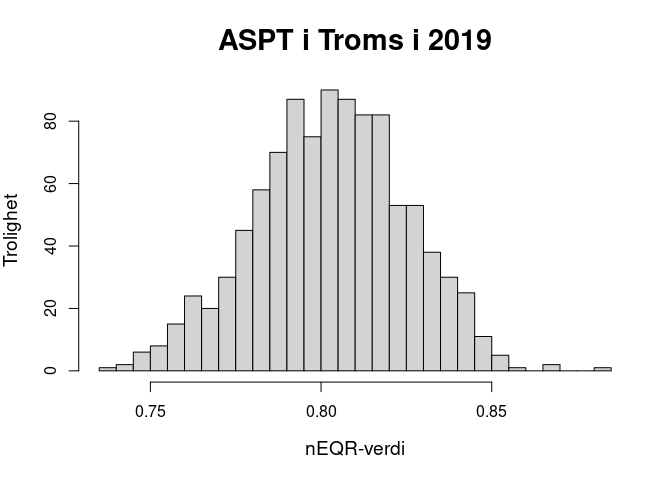
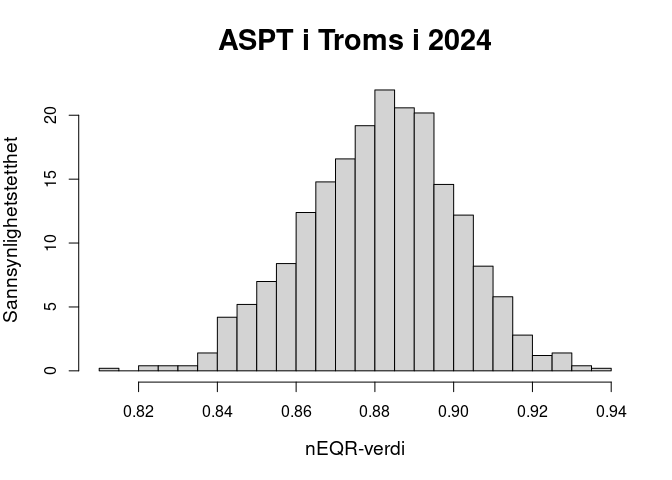
files for version 2.1, second delivery

diff --git a/vfNIdemo.md b/vfNIdemo.md
@@ -1,3 +1,11 @@
+# Illustrasjon av dataflyt fra vannforskrift til naturindeks
+
+Dette dokumentet viser gangen i å forberede og gjennomføre opplasting av
+data som har blitt samla inn i rammen av vannforskriften, til
+naturindeks-databasen. Dataflyt til økologiske tilstandsregnskap
+fungerer på tilsvarende måte (for detaljert dokumentasjon henvises her
+til [ecRxiv](https://github.com/NINAnor/ecRxiv)).
+
 -   [Forberedelser](#forberedelser)
 -   [Nødvendig informasjon om
     vannforekomster](#nødvendig-informasjon-om-vannforekomster)
@@ -13,11 +21,6 @@
 -   [Opplasting til
     naturindeks-databasen](#opplasting-til-naturindeks-databasen)
 
-Dette dokumentet viser gangen i å forberede og gjennomføre opplasting av
-data som har blitt samla inn i rammen av vannforskriften, til
-naturindeks-databasen. Dataflyt til økologiske tilstandsregnskap
-fungerer på tilsvarende måte (for detaljert dokumentasjon henvises her
-til [ecRxiv](https://github.com/NINAnor/ecRxiv)).
 
 ## Forberedelser
 
@@ -91,7 +94,7 @@ De nødvendige filene er plassert i mappa “[data](data/)”. De leses da
 inn i **R** ved hjelp av funksjonen
 [`lesVannforekomster`](forklar/lesVannforekomster.md) på følgende måte:
 
-    V <- lesVannforekomster(c("L", "R", "C"), filsti = "data")
+    V <- lesVannforekomster(c("L", "R"), filsti = "data")
 
     ## 
     ## OBS: Noen vannforekomsters dybde ble justert:
@@ -110,18 +113,14 @@ inn i **R** ved hjelp av funksjonen
     ## * 16 med "n" = "" for dybde
     ## * 2 med "0" = "Satt til turbid" for humøsitet
     ## * 1 med "0" = "Ikke satt" for turbiditet
-    ## * 4 med "0" = "Udefinert" for salinitet
-    ## * 2 med "0" = "Udefinert" for tidevann
-    ## * 2 med "0" = "Udefinert" for oppholdstid
-    ## * 2 med "0" = "Udefinert" for strøm
-    ## * 1115 med "Ikke relevant" for økologisk tilstand
-    ## * 17 med "Udefinert" for økologisk tilstand
+    ## * 1051 med "Ikke relevant" for økologisk tilstand
+    ## * 14 med "Udefinert" for økologisk tilstand
     ## * 1 med "Udefinert" for økologisk miljømål
-    ## * 7976 med "Ikke relevant" for økologisk potensial
+    ## * 5757 med "Ikke relevant" for økologisk potensial
     ## * 2 med "Udefinert" for økologisk potensial
-    ## * 7975 med "Udefinert" for økologisk potensial miljømål
+    ## * 5756 med "Udefinert" for økologisk potensial miljømål
     ## * 2 med "" for kjemisk tilstand
-    ## * 29706 med "Udefinert" for kjemisk tilstand
+    ## * 28084 med "Udefinert" for kjemisk tilstand
     ## Disse blir satt til <NA>!
     ## 
     ## OBS: Noen vannforekomsters størrelsesklasse ble justert opp:
@@ -137,7 +136,7 @@ inn i **R** ved hjelp av funksjonen
     ## * 1 gang fra 4 til 2
     ## * 5 ganger fra 4 til 3
     ## 
-    ## Innlesing av 32436 vannforekomster var vellykka. (Men legg merke til beskjedene over!)
+    ## Innlesing av 30153 vannforekomster var vellykka. (Men legg merke til beskjedene over!)
 
 Utmatinga forteller om mindre avvik fra det man kunne forvente. Men
 ingen av dem var kritisk for den videre analysen. I så fall hadde
@@ -201,9 +200,8 @@ vannmiljø endrer kolonnenavnene i sin nedlastingsløsning, må denne fila
 [oppdateres
 tilsvarende](forklar/hjelpfil.md#vannlokaliteter-vl-.xlsx-navnvl.csv).
 
-De relevante vannkategoriene (“L” for innsjø, “R” for elv og/eller “C”
-for kyst) oppgis som argument når vannlokalitene leses inn i R ved hjelp
-av funksjonen [`lesVannlokaliteter`](forklar/lesVannlokaliteter.md):
+Funksjonen [`lesVannlokaliteter`](forklar/lesVannlokaliteter.md) står
+for innlesinga:
 
     VL <- lesVannlokaliteter(filsti = "data")
 
@@ -309,7 +307,7 @@ tilsvarende](forklar/hjelpfil.md#vannmiljø-data-navnvm.csv).
 
 Funksjonen som leser inn målingene, heter
 [`lesMaalinger`](forklar/lesMaalinger.md). Den leser inn målingene via
-API når Vannmiljø-databasens forkortelse for parameteren oppgis som
+API når vannmiljø-databasens forkortelse for parameteren oppgis som
 argument (f.eks. “ASPT”). Når det oppgis filnavnet på den manuelt
 nedlasta excelfila, leses målingene inn fra denne. Det er det siste som
 illustreres her:
@@ -402,7 +400,7 @@ trenger man bare å oppgi om man ønsker å endre på standardinnstillingene
     ## 
     ## OBS: 1 måling ble ekskludert fordi den ikke kunne knyttes til noen kjent vannlokalitet.
     ## 
-    ## OBS: 941 målinger ble ekskludert fordi deres vannlokaliteter ikke kunne knyttes til noen
+    ## OBS: 943 målinger ble ekskludert fordi deres vannlokaliteter ikke kunne knyttes til noen
     ##      typifisert vannforekomst.
     ## 
     ## OBS: 370 målinger ble ekskludert fordi de ikke ble foretatt i en elvevannforekomst.
@@ -422,9 +420,9 @@ trenger man bare å oppgi om man ønsker å endre på standardinnstillingene
     ##      perioden 2001-2010).
     ## 
     ## Dataene som inngår i modelltilpasninga, inneholder dermed
-    ## - 17870 målinger fra
-    ## - 5500 vannlokaliteter i
-    ## - 3157 vannforekomster i
+    ## - 17868 målinger fra
+    ## - 5499 vannlokaliteter i
+    ## - 3156 vannforekomster i
     ## - 19 fylker
     ## - mellom 2001 og 2024.
     ## 
@@ -434,11 +432,11 @@ trenger man bare å oppgi om man ønsker å endre på standardinnstillingene
     ## 
     ## Oppsummering av variabelverdier før skalering:
     ##  minimum  ned. kv.    median  gj.snitt  øvr. kv.  maksimum 
-    ##  0,00000   5,55556   6,14286   5,99410   6,60000   9,25000 
+    ##  0,00000   5,55556   6,14286   5,99425   6,60000   9,25000 
     ## 
     ## Oppsummering av variabelverdier etter skalering:
     ##  minimum  ned. kv.    median  gj.snitt  øvr. kv.  maksimum 
-    ##  0,00000   0,48889   0,63572   0,63704   0,75000   1,19914 
+    ##  0,00000   0,48889   0,63572   0,63708   0,75000   1,19914 
     ## 
     ## 
     ##    Modelltilpasning til målingene
@@ -499,45 +497,45 @@ trenger man bare å oppgi om man ønsker å endre på standardinnstillingene
     ## 
     ## Residualer:
     ##  minimum  ned. kv.    median  gj.snitt  øvr. kv.  maksimum 
-    ## -6,22405  -0,50275  -0,12990  -0,02313   0,21789   8,69094 
-    ## standardfeil: 1,124 med 17834 frihetsgrader
+    ## -6,22560  -0,50273  -0,12988  -0,02307   0,21813   8,69056 
+    ## standardfeil: 1,124 med 17832 frihetsgrader
     ## 
     ## Koeffisienter:
     ##                                                  estimat standardfeil t-verdi Pr(>|t|)    
-    ## (konstantledd)                                  -5,24763      0,29527  -17,77  < 1E-12 ***
-    ## per2014                                         -1,36020      0,06330  -21,49  < 1E-12 ***
-    ## per2019                                         -1,23902      0,05377  -23,04  < 1E-12 ***
-    ## per2024                                         -1,67255      0,05139  -32,54  < 1E-12 ***
-    ## rar                                              0,20460      0,01865   10,97  < 1E-12 ***
-    ## aktANNE+ELVE+GRUV+PASV+PROB+TILT+VASS           -0,48141      0,05156   -9,34  < 1E-12 ***
-    ## aktAREA+BAPO+KALK+KOMM                          -0,67267      0,05960  -11,29  < 1E-12 ***
-    ## aktBARE+EMUD+FLYP+FORS+INDU+JRBN+KART+OEKF+SKYT -1,04850      0,05809  -18,05  < 1E-12 ***
-    ## aktBIOM+DEPO+KALL+KAVE                          -0,27364      0,05791   -4,73  2,3E-06 ***
-    ## aktDRIK                                         -1,62428      0,20094   -8,08  < 1E-12 ***
-    ## aktLANG                                          1,11341      0,07840   14,20  < 1E-12 ***
-    ## gbred                                            0,12559      0,00452   27,79  < 1E-12 ***
-    ## sonL                                             0,07901      0,06198    1,27  0,20241    
-    ## sonM                                             0,22009      0,06140    3,58  0,00034 ***
-    ## sto2                                             0,06642      0,02212    3,00  0,00269 ** 
-    ## sto3+4                                           0,20664      0,02816    7,34  < 1E-12 ***
-    ## sto5                                             0,01404      0,05786    0,24  0,80822    
-    ## alk2                                            -0,21186      0,02962   -7,15  < 1E-12 ***
-    ## alk3                                            -0,51017      0,03502  -14,57  < 1E-12 ***
-    ## alk4                                            -0,95429      0,04790  -19,92  < 1E-12 ***
-    ## alk5+6+7                                         0,09787      0,03696    2,65  0,00810 ** 
-    ## hum2                                            -0,13776      0,02355   -5,85  5,0E-09 ***
-    ## hum3                                            -0,84509      0,10606   -7,97  < 1E-12 ***
-    ## hum4                                            -0,13154      0,05909   -2,23  0,02602 *  
-    ## tur3                                            -0,31788      0,04686   -6,78  1,2E-11 ***
-    ## per2014:rar                                     -0,18432      0,02998   -6,15  8,0E-10 ***
-    ## per2019:rar                                     -0,21440      0,02310   -9,28  < 1E-12 ***
-    ## per2024:rar                                     -0,10879      0,02121   -5,13  2,9E-07 ***
+    ## (konstantledd)                                  -5,24891      0,29528  -17,78  < 1E-12 ***
+    ## per2014                                         -1,36155      0,06330  -21,51  < 1E-12 ***
+    ## per2019                                         -1,24043      0,05379  -23,06  < 1E-12 ***
+    ## per2024                                         -1,67399      0,05140  -32,57  < 1E-12 ***
+    ## rar                                              0,20421      0,01866   10,95  < 1E-12 ***
+    ## aktANNE+ELVE+GRUV+PASV+PROB+TILT+VASS           -0,48147      0,05156   -9,34  < 1E-12 ***
+    ## aktAREA+BAPO+KALK+KOMM                          -0,67262      0,05960  -11,29  < 1E-12 ***
+    ## aktBARE+EMUD+FLYP+FORS+INDU+JRBN+KART+OEKF+SKYT -1,04856      0,05809  -18,05  < 1E-12 ***
+    ## aktBIOM+DEPO+KALL+KAVE                          -0,27380      0,05791   -4,73  2,3E-06 ***
+    ## aktDRIK                                         -1,62457      0,20095   -8,08  < 1E-12 ***
+    ## aktLANG                                          1,11342      0,07840   14,20  < 1E-12 ***
+    ## gbred                                            0,12563      0,00452   27,80  < 1E-12 ***
+    ## sonL                                             0,07915      0,06198    1,28  0,20162    
+    ## sonM                                             0,22004      0,06140    3,58  0,00034 ***
+    ## sto2                                             0,06615      0,02213    2,99  0,00280 ** 
+    ## sto3+4                                           0,20643      0,02816    7,33  < 1E-12 ***
+    ## sto5                                             0,01380      0,05786    0,24  0,81151    
+    ## alk2                                            -0,21193      0,02962   -7,16  < 1E-12 ***
+    ## alk3                                            -0,51000      0,03502  -14,56  < 1E-12 ***
+    ## alk4                                            -0,95428      0,04790  -19,92  < 1E-12 ***
+    ## alk5+6+7                                         0,09795      0,03696    2,65  0,00805 ** 
+    ## hum2                                            -0,13771      0,02355   -5,85  5,1E-09 ***
+    ## hum3                                            -0,83665      0,10625   -7,87  < 1E-12 ***
+    ## hum4                                            -0,13157      0,05909   -2,23  0,02599 *  
+    ## tur3                                            -0,31872      0,04687   -6,80  1,1E-11 ***
+    ## per2014:rar                                     -0,18399      0,02998   -6,14  8,6E-10 ***
+    ## per2019:rar                                     -0,21401      0,02310   -9,26  < 1E-12 ***
+    ## per2024:rar                                     -0,10841      0,02121   -5,11  3,2E-07 ***
     ## ---
     ## Signifikansnivåer:  0 *** 0,001 ** 0,01 * 0,05 . 0,1
     ## 
-    ## AIC = 68079,49
+    ## AIC = 68070,43
     ## R² = 0,2768
-    ## F(27, 17834) = 252,8
+    ## F(27, 17832) = 252,8
     ## p < 1E-12
     ## 
     ## 
@@ -549,8 +547,8 @@ trenger man bare å oppgi om man ønsker å endre på standardinnstillingene
     ## - 1 vannforekomst har den ukjente vanntypen "turbiditet = <NA>";
     ## - 2 vannforekomster har den ukjente vanntypen "humøsitet = <NA>".
     ## Disse blir ekskludert fra ekstrapoleringa, slik at 23092 vannforekomster er igjen.
-    ## Det foreligger altså målinger for 14 % av de relevante vannforekomstene (3156 av 23092).
-    ## Målingene representerer 9 % av de relevante vannforekomstenes samla lengde (43982 av
+    ## Det foreligger altså målinger for 14 % av de relevante vannforekomstene (3155 av 23092).
+    ## Målingene representerer 11 % av de relevante vannforekomstenes samla lengde (51531 av
     ## 475171 km).
     ## 
     ## 
@@ -562,7 +560,7 @@ trenger man bare å oppgi om man ønsker å endre på standardinnstillingene
     ## Ferdig med 443 av 443 kommuner.
     ## 
     ## Sånn. Da har vi omsider kommet i mål.
-    ## ASPTs mEQR-verdier har medianen 0,875 og strekker seg fra 0,022 til 1,200.
+    ## ASPTs mEQR-verdier har medianen 0,875 og strekker seg fra 0,023 til 1,200.
 
 ## Visualisering
 
@@ -570,14 +568,15 @@ Her kommer noen eksempler på visualiseringer av resultatene. For det
 første kan man plotte den simulerte sannsynlighetsfordelinga som et
 histogram, f.eks. slik:
 
-    hist(utmating$fylke["1200", "2019", ], 
-         breaks=36, 
-         main="ASPT i Troms i 2019", 
-         xlab="nEQR-verdi", 
-         ylab="Trolighet", 
-         cex.lab=1.2, cex.main=1.8)
+    hist(utmating$fylke["1900", "2024", ], 
+         breaks = 36, 
+         freq = FALSE,
+         main = "ASPT i Troms i 2024", 
+         xlab = "nEQR-verdi", 
+         ylab = "Sannsynlighetstetthet", 
+         cex.lab = 1.2, cex.main = 1.8)
 
-![](/data/Egenutvikling/61308-01_fu_intern_hanno_sandvik/WFD2ECA/vfNIdemo_files/figure-markdown_strict/unnamed-chunk-14-1.png)
+![](fig/fig1.png)
 
 De fylkesvise gjennomsnittsresultatene kan vises på kart:
 
@@ -602,7 +601,7 @@ De fylkesvise gjennomsnittsresultatene kan vises på kart:
          pos = 2, cex = 0.96)
     text(rep(26, 5), 59.8+0:4*1.6, c("SD", "D", "M", "G", "SG"), pos = 4, cex = 1.2)
 
-![](/data/Egenutvikling/61308-01_fu_intern_hanno_sandvik/WFD2ECA/vfNIdemo_files/figure-markdown_strict/unnamed-chunk-15-1.png)
+![](fig/fig2.png)
 
 Det samme gjelder de kommunevise resultatene:
 
@@ -630,7 +629,7 @@ Det samme gjelder de kommunevise resultatene:
          pos = 2, cex = 0.96)
     text(rep(26, 5), 59.8+0:4*1.6, c("SD", "D", "M", "G", "SG"), pos = 4, cex = 1.2)
 
-![](/data/Egenutvikling/61308-01_fu_intern_hanno_sandvik/WFD2ECA/vfNIdemo_files/figure-markdown_strict/unnamed-chunk-16-1.png)
+![](fig/fig3.png)
 
 ## Opplasting til naturindeks-databasen
 

diff --git a/forklar/WFD2ECA.md b/forklar/WFD2ECA.md
@@ -36,10 +36,10 @@ WFD2ECA(DATA, vannforekomster, vannlokaliteter, parameter, vannkategori,
 - `vannforekomster` (**tabell**). _Argumentet må angis_. Det skal være **R**-tabellen som inneholder informasjonen om vannforekomster (som utmating av funksjonen [`lesVannforekomster`](lesVannforekomster.md) eller [`oppdaterVannforekomster`](oppdaterVannforekomster.md)).
 - `vannlokaliteter` (**tabell**). _Argumentet må angis_. Det skal være **R**-tabellen som inneholder informasjonen om vannlokaliteter (som utmating av funksjonen [`lesVannlokaliteter`](lesVannlokaliteter.md)).
 - `parameter` (**tekst-skalar**). _Argumentet må angis_. Det skal være forkortelsen på den relevante vannforskriftsparameteren. (Forkortelsen må følge vannmiljø-databasen. For eksempel er «planteplankton trofiindeks», som er kjent som PTI, i vannmiljø forkorta som «PPTI». Se [hvilke parametere som er klargjort for dataflyt](param.md).)
-- `vannkategori` (**tekst-skalar**). _Argumentet må angis_. Det skal være én av bokstavene "L", "R" eller "C", som står for henholdsvis innsjø, elv og kyst.
+- `vannkategori` (**tekst-skalar**). _Argumentet må angis_. Det skal være én av bokstavene «L», «R» eller «C», som står for henholdsvis innsjø, elv og kyst.
 - `filKlasser` (**tekst-skalar**). Filnavn på excel-regnearket med parameterens klassegrenser. Hvis det ikke er angitt, antas filnavnet å være «klassegrenser_[`parameter`].xslx», altså f.eks. «klassegrenser_ASPT.xslx» for parameteren ASPT.
 - `rapportaar` (**numerisk vektor**). Rapporteringsår for naturregnskapet, som ett eller flere årstall. Det er disse årene det estimeres verdier for naturregnskapet. Hvis argumentet ikke er angitt, antas den å bestå av årstalla 2012, 2015, 2018, 2021 og 2024. (Frem til versjon 1.5 het dette argumentet `NI.aar`.)
-- `rapportenhet` (**tekst-vektor**). Romlig enhet som verdiene skal skaleres opp til. Tillate svar er én eller flere av «kommune», «fylke», «landsdel» og «Norge». Standardinnstillinga er å bruke de to siste.
+- `rapportenhet` (**tekst-vektor**). Romlig enhet som verdiene skal skaleres opp til. Tillate svar er én eller flere av «vannforekomst», «kommune», «fylke», «landsdel» og «Norge». Standardinnstillinga er å bruke de to siste.
 - `adminAar` (**numerisk skalar**). Årstallet for kommune- og fylkesinndelinga som skal legges til grunn. Kommune- og fylkesinndelinga ligger ikke fast, og hvis «kommuner» og/eller «fylke» er valgt som rapportenhet, kan utmatinga være avhengig av året inndelinga skal gjelde for. Standardinnstillinga er Norges administrative inndeling per 2010.
 - `kommHist` (**tekst-skalar**). Filnavn på excel-regnearket med Norges historiske og nåværende kommunenavn og -numre. Hvis det ikke er angitt, antas filnavnet å være «knr.xlsx».
 - `fylkHist` (**tekst-skalar**). Filnavn på excel-regnearket med Norges historiske og nåværende fylkesnavn og -numre. Hvis det ikke er angitt, antas filnavnet å være «fnr.xlsx».
@@ -63,11 +63,11 @@ WFD2ECA(DATA, vannforekomster, vannlokaliteter, parameter, vannkategori,
 - `maalingTot` (**numerisk skalar**). Minste antall vannforekomster som det totalt må foreligge målinger fra for at det gjøres et forsøk på å estimere verdier. Standardinnstillinga er 200.
 - `maalingTyp` (**numerisk skalar**). Minste antall målinger som må foreligge for en typologifaktor for at det gjøres et forsøk på å inkludere typologifaktoren i [modellen](modell.md). Standardinnstillinga er 50. (Argumentet ble tilføyd i versjon 1.2.)
 - `maalingInt` (**numerisk skalar**). Minste antall målinger som må foreligge for hver kombinasjon av to parametere for at en interaksjonen mellom dem testes i [modellen](modell.md). Standardinnstillinga er 50. (Argumentet ble tilføyd i versjon 1.4.)
-- `EQR` (**tekst-** eller **sannhetsverdi-skalar**). Måten mEQR-verdier (eller nEQR-verdier) blir beregna på. Standardinnstillinga er "asymptotisk". Tilgjengelige alternativ er "forlengelse", "knekk", "nEQR" og `FALSE`. Det siste alternativet bruker uskalerte måleverdier. (Se [utdypende forklaring](asympEQR.md). Argumentet ble tilføyd i versjon 1.2, alternativet "FALSE" i versjon 2.0.)
+- `EQR` (**tekst-** eller **sannhetsverdi-skalar**). Måten mEQR-verdier (eller nEQR-verdier) blir beregna på. Standardinnstillinga er «asymptotisk». Tilgjengelige alternativ er «forlengelse», «knekk», «nEQR» og `FALSE`. Det siste alternativet bruker uskalerte måleverdier. (Se [utdypende forklaring](asympEQR.md). Argumentet ble tilføyd i versjon 1.2, alternativet «FALSE» i versjon 2.0.)
 - `ignorerVariabel` (**tekst-vektor**). Oppgitte typologifaktorer inngår ikke i [modelltilpasninga](modell.md). Standardinnstillinga er å teste ut alle typologifaktorer.
 - `fastVariabel` (**tekst-vektor**). Oppgitte typologifaktorer tvinges til å være med i [modellen som tilpasses](modell.md). Standardinnstillinga er å teste ut alle typologifaktorer.
 - `trend` (**sannhetsverdi-skalar**). Ved `trend = TRUE` inkluderes en trend for hver rapporteringsperiode i modellen (inkludert interaksjon med rapporteringsperiode). Ved `trend = FALSE` estimeres ikke noen trend innenfor rapporteringsperioder. Ved `trend = NA` (standardinnstillinga) estimeres trender kun om rapporteringsperiodene er lenger enn 3&nbsp;år. (Argumentet ble tilføyd i versjon 2.0.)
-- `anadrom` (**sannhetsverdi-skalar**). Ved `anadrom = FALSE` (standardinnstillinga) behandles anadrome og ikke-anadrome vassdrag likt (dvs. vassdrag med eller uten laksefisk). Ved `anadrom = TRUE` behandles anadromi som en typologifaktor, som vil si at klassegrenser tillates å variere mellom anadrome og ikke-anadrome vassdrag. Dette er bare relevant for enkelte forsurings-parametere (ANC og LAL) og i elver; det forutsetter at datarammen for vannforekomster har en kolonne som heter "anadr" og inneholder anadromistatus; og det medfører videre at turbiditet utgår som typologifaktor. (Argumentet ble tilføyd i versjon 2.0.)
+- `anadrom` (**sannhetsverdi-skalar**). Ved `anadrom = FALSE` (standardinnstillinga) behandles anadrome og ikke-anadrome vassdrag likt (dvs. vassdrag med eller uten laksefisk). Ved `anadrom = TRUE` behandles anadromi som en typologifaktor, som vil si at klassegrenser tillates å variere mellom anadrome og ikke-anadrome vassdrag. Dette er bare relevant for enkelte forsurings-parametere (ANC og LAL) og i elver; det forutsetter at datarammen for vannforekomster har en kolonne som heter «anadr» og inneholder anadromistatus; og det medfører videre at turbiditet utgår som typologifaktor. (Argumentet ble tilføyd i versjon 2.0.)
 - `aktVekting` (**sannhetsverdi-skalar**). Måten vekting for overvåkingsaktivitet gjennomføres på. De to tilgjengelige alternativene gir veldig like resultater. Standardinnstillinga (`aktVekting = TRUE`) bør bare endres for å gjenskape resultater av tidligere versjoner av funksjonen (versjon 1.1 eller tidligere).
 - `aktivitetsvekt` (**numerisk skalar**). Tallverdi som blir brukt for vekting av overvåkingsaktiviteter. Jo høyere vekt, desto mer vektes overvåkingsaktiviteter med høy «skjevhetsskår» ned ved estimering av verdier. Standardinnstillinga er 2 (men den var 5 frem til versjon 1.4 og 3 fra versjon 1.5 til 2.0), som betyr at aktiviteter får 2 ganger lavere vekt når de har en skår på ±1, 4 ganger lavere vekt når de har en skår på ±2, og 8 ganger lavere vekt når de har en skår på ±3. (Se også argumentet `maksSkjevhet` over, som tillater å ekskludere aktiviteter med visse skjevhetsskår helt, og [utdypende forklaring](aktiv.md).)
 - `antallvekt` (**numerisk skalar**). Tallverdi som blir brukt for vekting av antall prøver per måleverdi. Standardinnstillinga er 0,5, som betyr at målinger som baserer seg på flere enkeltprøver får en vekt som tilsvarer kvadratroten av antall enkeltprøver. Ved `antallvekt = 1` vektes målinger med antall enkeltprøver; ved `antallvekt = 0` får alle målinger samme vekt.
@@ -79,8 +79,8 @@ WFD2ECA(DATA, vannforekomster, vannlokaliteter, parameter, vannkategori,
 - `ekstrapolering` (**tekst-skalar**). Ved `ekstrapolering = "kjente"` (standardinnstillinga) ekstrapoleres økologisk tilstand bare til vannforekomster som har en typologi som det faktisk foreligger målinger for. Alternativet er `ekstrapolering = "alle"`, som innebærer at det forsøkes å ekstrapolere økologisk tilstand til alle vannforekomster som parameteren er definert for. (Se [utdypende forklaring](extrapol.md). Argumentet ble tilføyd i versjon 1.2.)
 - `beggeEnder` (**sannhetsverdi-skalar**). Ved `beggeEnder = TRUE` estimeres en verdi for rapportåret i forkant av det nærmeste rapportåret som har tilstrekkelig data. Standardinnstillinga er `FALSE`. (Argumentet ble tilføyd i versjon 1.5.)
 - `iterasjoner` (**numerisk skalar**). Antall iterasjoner som skal brukes i simuleringa. Standardinnstillinga er satt til 10 000. Lavere bør det ikke være for bruk i naturregnskap, men merk at en kjøring med så mange iterasjoner vil ta lang tid. For et prøvekjør bør tallet settes betydelig lavere, f.eks. til 1 000.
-- `lokalModell` (**sannhetsverdi-** eller **numerisk skalar**). Argumentet bestemmer måten målte vannforekomster håndteres under simuleringa. Ved `lokalModell = FALSE` (eller 0) blir målte og ekstrapolerte verdier behandla likt (dette var praksis frem til versjon 1.4). Ved `lokalModell = TRUE` (eller 1) blir usikkerheten til målte vannforekomster kvantifisert som konfidensintervaller (mot prediksjonsintervaller for ekstrapolerte vannforekomster), og ¤¤¤
-- `SEED` (**numerisk skalar**). "Frø" eller "såkorn"" for slumptallgeneratoren. Ifølge standardinnstillinga (`SEED = NULL`) genereres ulike slumptall ved hver kjøring. Ved å angi et heltall i stedet kan man sikre at flere kjøringer benytter de samme slumptallene. (Argumentet ble tilføyd i versjon 1.2.)
+- `lokalModell` (**sannhetsverdi-** eller **numerisk skalar**). Argumentet bestemmer måten målte vannforekomster håndteres under simuleringa. Ved `lokalModell = FALSE` (eller 0) blir målte og ekstrapolerte verdier behandla likt (dette var praksis frem til versjon 1.4). Hvis `lokalModell` &ge; 0,5, blir usikkerheten til målte vannforekomster kvantifisert som konfidensintervaller fra den respektive vannforekomsten og rapportperioden (mot prediksjonsintervaller for ekstrapolerte vannforekomster; dette var praksis fra versjon 1.5 til 2.0). Ved `lokalModell = TRUE` (eller 1), blir det dessuten tilpassa en lokal tidsavhengig modell i slike tilfeller, gitt at `trend = TRUE`, og at det foreligger nok data fra vannforekomsten i den aktuelle rapportperioden. (Argumentet ble tilføyd i versjon 2.1.)
+- `SEED` (**numerisk skalar**). «Frø» eller «såkorn» for slumptallgeneratoren. Ifølge standardinnstillinga (`SEED = NULL`) genereres ulike slumptall ved hver kjøring. Ved å angi et heltall i stedet kan man sikre at flere kjøringer benytter de samme slumptallene. (Argumentet ble tilføyd i versjon 1.2.)
 - `bredde` (**numerisk skalar**). Maksimal bredde på beskjeder i antall tegn. Standardinnstillinga er å la skjermbredden bestemme.
 - `vis` (**sannhetsverdi-skalar**). Ved `vis = TRUE` (standardinnstillinga) vises fortløpende informasjon om progresjonen. Ved `vis = FALSE` vises bare beskjeder som er over middels viktig.
 - `tell` (**sannhetsverdi-skalar**). Ved `tell = TRUE` (standardinnstillinga) vises prosentvis fremskritt ved trinn som tar lang tid.
@@ -99,9 +99,9 @@ Funksjonen [`fraVFtilNI`](fraVFtilNI.md) benytter samme kode som `WFD2ECA`, men 
 ## Funksjonsverdi
 
 Funksjonen leverer en liste med like mange elementer som rapportenheter (så sant `rapportenhet` var en gyldig innmating). 
-Elementene heter `kommune`, `fylke`, `landsdel` og/eller `Norge`, avhengig av argumentet `rapportenhet`. 
+Elementene heter `vannforekomst`, `kommune`, `fylke`, `landsdel` og/eller `Norge`, avhengig av argumentet `rapportenhet`. 
 Hvert av elementene er en tredimensjonal tabell (_array_) med _E_ × _A_ × _S_ tallverdier, der 
-_E_ er antall administrative enheter (dimensjonen heter henholdsvis `kommune`, `fylke`, `landsdel` eller `rike`, med verdier tilsvarende kommunenavnene osv.), 
+_E_ er antall administrative enheter (dimensjonen heter henholdsvis `vannforekomst`, `kommune`, `fylke`, `landsdel` eller `rike`, med verdier tilsvarende kommunenavnene osv.), 
 _A_ er rapportår (`aar`, med verdier gitt gjennom `rapportaar`) og 
 _S_ er antall iterasjoner + 1 (`simuleringer`, med verdiene `median`, etterfulgt av én verdi per iterasjon).
 
@@ -113,6 +113,10 @@ Listen har følgende attributter:
 - `versjon` (**tekst-skalar**) er versjonsnummeret til funksjonen som har blitt brukt.
 - `innstillinger` (**liste**) er en liste over de øvrige innstillingene, slik de ble valgt for den aktuelle kjøringa.
 - `beskjeder` (**tekst-vektor**) er en samling av de relevante beskjedene som ble produsert under kjøringa.
+
+I tilegg har de enkelte listeelementene (fra versjon 2.1) et attributt som heter `areal` og er en **numerisk tabell** som inneholder én kolonne for økosystemets relevante areal i km² (`samla`), og én kolonne for hver rapportperiode som angir arealet som det foreligger målinger fra i denne perioden (`maalt.` + årstall). Det er én rad per administrativ enhet. For elver er det angitt lengde i km istedenfor areal.
+
+Videre har listelementene `vannforekomst`, `kommune` og `fylke` et attributt som heter `maalt` og er en **sannhetsverdi-tabell** som inneholder én kolonne for hver rapportperiode som angir om det forelå målinger for samtlige vannforekomster i den aktuelle administrative enheten og rapportperioden. Det er én rad per administrativ enhet.
 
 
 ## Kode

diff --git a/README.md b/README.md
@@ -14,7 +14,7 @@ På disse sidene blir
 - [parametrene som er klargjort for dataflyt, presentert](forklar/param.md).
 
 Det er publisert [flere versjoner](https://github.com/NINAnor/NI_vannf/blob/main/forklar/versjon.md) av koden.
-Det er den nyeste som bør brukes (i skrivende stund versjon 2.0).
+Det er den nyeste som bør brukes (i skrivende stund versjon 2.1).
 
 ## Kontakt
 Denne sida vedlikeholdes av [Hanno Sandvik](mailto:hanno.sandvik@nina.no).
@@ -22,10 +22,10 @@ Denne sida vedlikeholdes av [Hanno Sandvik](mailto:hanno.sandvik@nina.no).
 &nbsp;
 
 # _English summary_
-_**Automated data flow from the Water Framework Directive (WFD) to Ecological Condition Accounts (ECA)**_
+_**Automated data flow from the Water Framework Directive (WFD) to Ecosystem Condition Accounts (ECA)**_
 
 ## _Purpose_
-_The **R** code developed here streamlines the flow of [data that have been sampled](https://vannmiljo.miljodirektoratet.no/) in connection with the [Water Framework Directive](http://eur-lex.europa.eu/LexUriServ/LexUriServ.do?uri=CELEX:32000L0060:en:NOT) (**WFD**) to [Ecological Condition Accounts](https://github.com/NINAnor/ecRxiv) (**ECA**) or to the [Nature Index for Norway](https://www.naturindeks.no/)._
+_The **R** code developed here streamlines the flow of [data that have been sampled](https://vannmiljo.miljodirektoratet.no/) in connection with the [Water Framework Directive](http://eur-lex.europa.eu/LexUriServ/LexUriServ.do?uri=CELEX:32000L0060:en:NOT) (**WFD**) to [Ecosystem Condition Accounts](https://github.com/NINAnor/ecRxiv) (**ECA**) or to the [Nature Index for Norway](https://www.naturindeks.no/)._
 
 _[Full documentation](forklar/) is provided in Norwegian only.
 However, an [English summary](forklar/dataflow.md) of the workflow is available._

diff --git a/forklar/versjon.md b/forklar/versjon.md
@@ -9,6 +9,19 @@ I tillegg har alle arkiverte versjoner hver sin unike DOI.
 _Oversikt over publiserte versjoner:_
 
 
+## Versjon 2.1
+Publiseres november 2025. _Endringer:_
+
+- Funksjonen `WFD2ECA` tillater "vannforekomst" tillates som rapportenhet ([detaljer](../R/WFD2ECA.md)).
+- Funksjonen `WFD2ECA` har fått nye argumenter (`utEQR`, `utEstimat`og `lokalModell`).
+- Standardinnstillinga for `aktivitetsvekt` er satt ned fra 3 til 2.
+- Arealet som har blitt målt og ekstrapolert til, er nå del av utmatinga til `WFD2ECA`.
+- Kobling av målinger til vannforekomster og modellseleksjonen har blitt forbedra.
+- Funksjonen `lesMaalinger` kan lese både fra API og fileksport ([detaljer](lesMaalinger.md)).
+- Funksjonen `lesVannlokaliteter` kan lese både fra API og fileksport ([detaljer](lesVannlokaliteter.md)).
+- Funksjonen `lesVannforekomster` har blitt forbedra.
+
+
 ## Versjon 2.0
 [![DOI](https://zenodo.org/badge/DOI/10.5281/zenodo.16811526.svg)](https://doi.org/10.5281/zenodo.16811526)  
 Publisert august 2025. _Endringer:_
